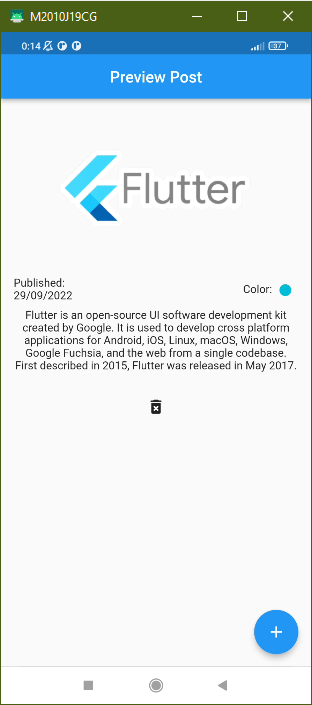
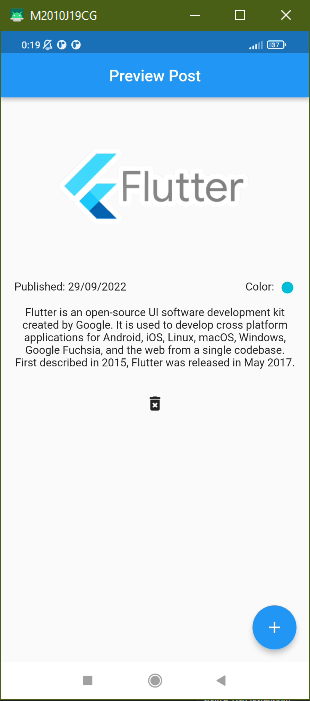
Praktikum Task Section 18

diff --git a/18_Form Picker/praktikum/praktikum_task1/lib/component/post_item.dart b/18_Form Picker/praktikum/praktikum_task1/lib/component/post_item.dart
@@ -32,12 +32,12 @@ class PostItem extends StatelessWidget {
                 children: [
                   SizedBox(
                     height: 50,
-                    width: 140,
+                    width: 145,
                     child: Center(child: Text('Published: ${post.day}')),
                   ),
                   SizedBox(
                       height: 50,
-                      width: 70,
+                      width: 65,
                       child: Center(
                         child: Row(
                           children: [
